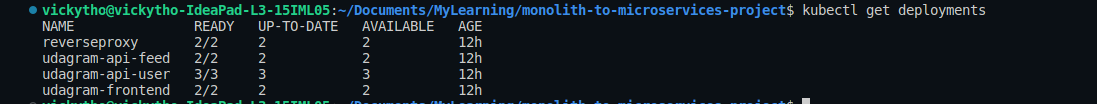
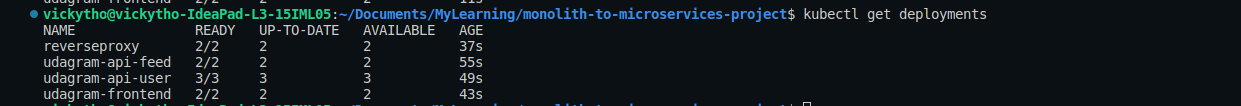
update frontend url

diff --git a/udagram-frontend/src/environments/environment.prod.ts b/udagram-frontend/src/environments/environment.prod.ts
@@ -5,7 +5,7 @@
 export const environment = {
   production: false,
   appName: 'Udagram',
-  apiHost: 'http://ae82a72a01d4540f7a5e06ca553857cf-919673733.us-east-1.elb.amazonaws.com:8080/api/v0'
+  apiHost: 'http://abaa6d66527df4f04b1d516d25e2c402-1180390229.us-east-1.elb.amazonaws.com:8080/api/v0'
 };
 
 /*

diff --git a/udagram-frontend/src/environments/environment.ts b/udagram-frontend/src/environments/environment.ts
@@ -5,7 +5,7 @@
 export const environment = {
   production: false,
   appName: 'Udagram',
-  apiHost: 'http://ae82a72a01d4540f7a5e06ca553857cf-919673733.us-east-1.elb.amazonaws.com:8080/api/v0'
+  apiHost: 'http://abaa6d66527df4f04b1d516d25e2c402-1180390229.us-east-1.elb.amazonaws.com:8080/api/v0'
 };
 
 /*
